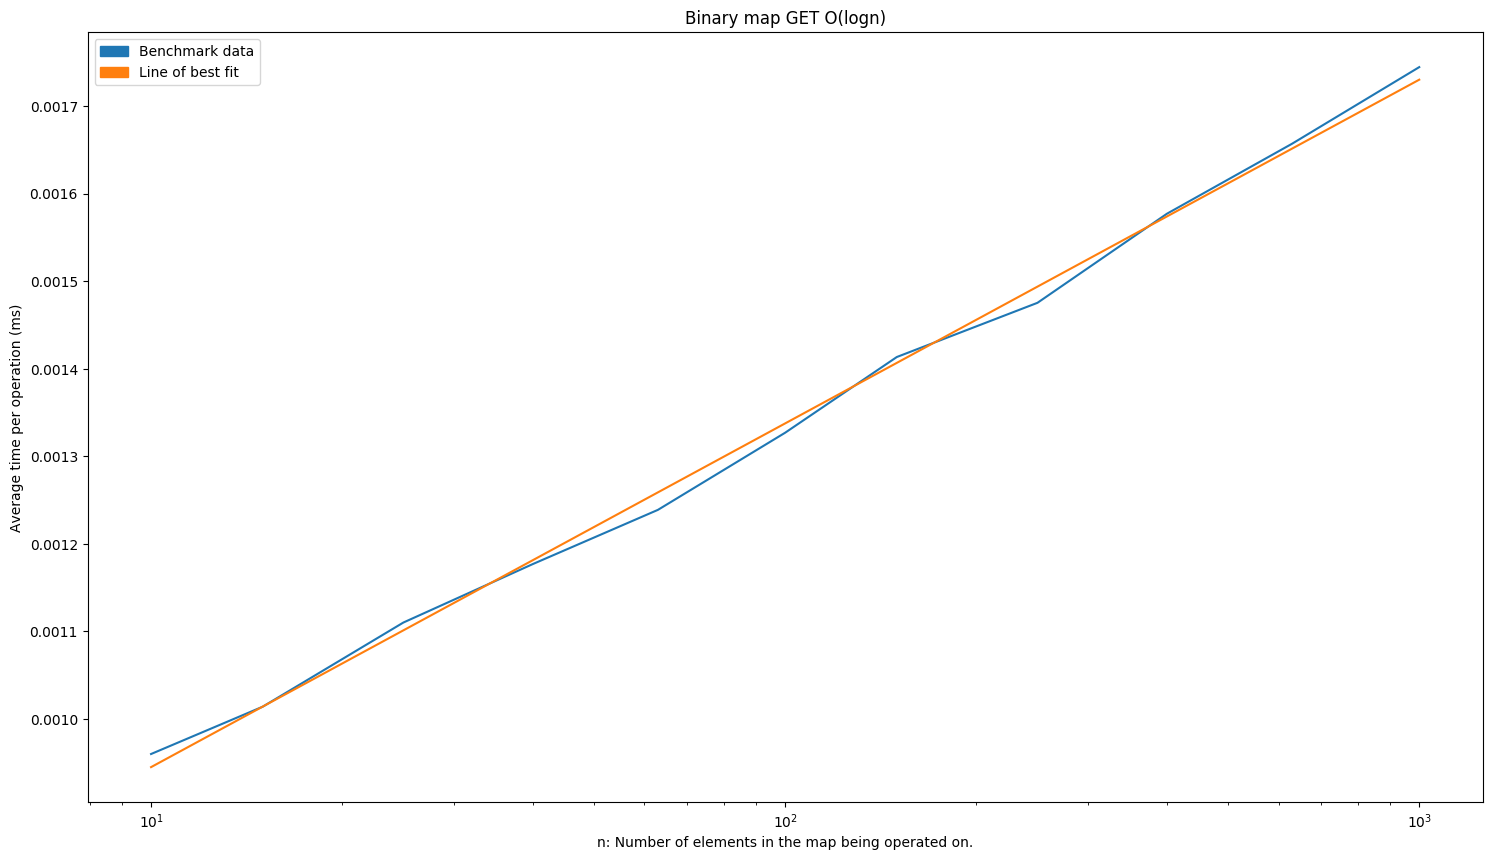
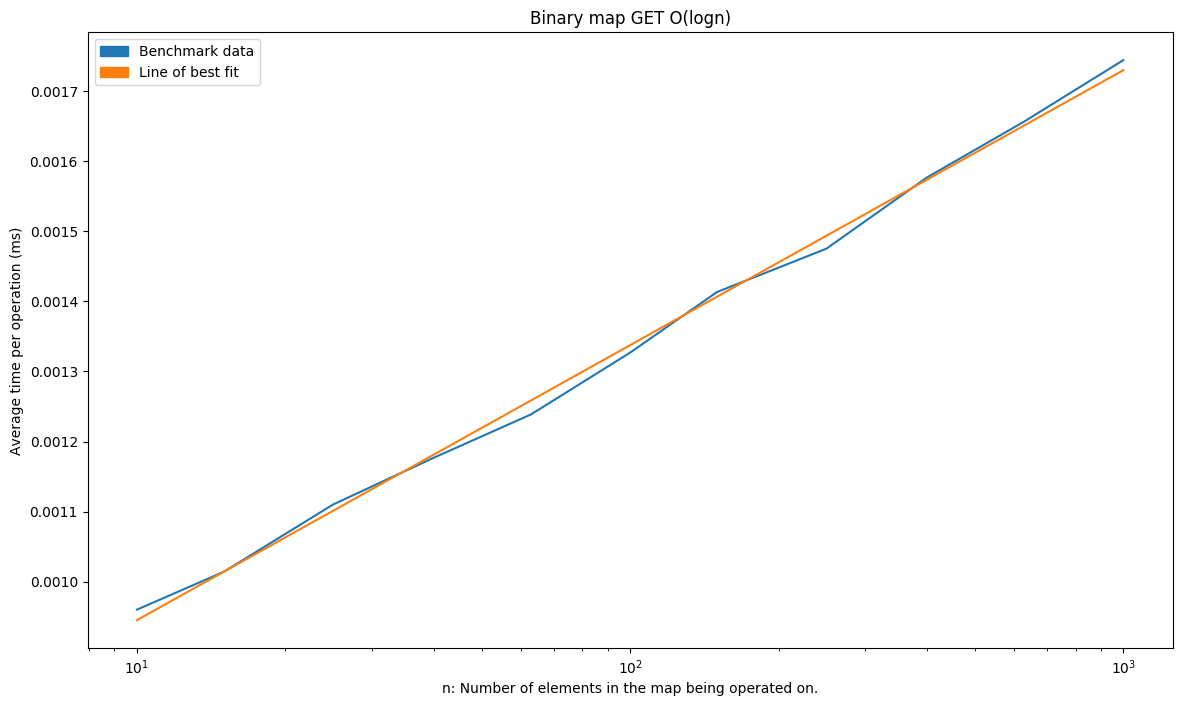
build_table.py

diff --git a/reg_separate.py b/reg_separate.py
@@ -13,6 +13,7 @@ import matplotlib.patches as mpatches
 
 i = 0
 
+
 class Functions:
     @staticmethod
     def constant(x, n):
@@ -23,6 +24,10 @@ class Functions:
         return m*x + b
 
     @staticmethod
+    def piecewise(x, m, b, a):
+        return np.piecewise(x, [x < a, x >= a], [lambda x: b, lambda x: m*x-m*a+b])
+
+    @staticmethod
     def logarithmic(x, a, b):
         return a * np.log(x) + b
 
@@ -30,10 +35,12 @@ class Functions:
     def linearithmic(x, a, b, c):
         return a * np.log(x) + b * x + c
 
+
 def plot_csv(path, function, title, graphstep=100):
     global i
+    print(i+1)
     plt.clf()
-    i+=1
+    i += 1
     xdata = []
     ydata = []
     with open(path) as csv:
@@ -42,7 +49,7 @@ def plot_csv(path, function, title, graphstep=100):
                 continue
             n, t = line.split(", ")
             n = int(n)
-            t = float(t)*1000 # convert to ms
+            t = float(t)*1000  # convert to ms
             xdata.append(n)
             ydata.append(t)
 
@@ -50,29 +57,36 @@ def plot_csv(path, function, title, graphstep=100):
     ydata = np.array(ydata)
 
     param, v = curve_fit(function, xdata, ydata)
-    
+
     plt.plot(xdata, ydata)
-    lin = np.linspace(min(xdata),max(xdata),graphstep)
+    lin = np.linspace(min(xdata), max(xdata), graphstep)
     plt.plot(lin, function(lin, *param))
     plt.xscale("log")
     plt.title(title)
     p1 = mpatches.Patch(color='C0', label='Benchmark data')
     p2 = mpatches.Patch(color='C1', label='Line of best fit')
-    plt.legend(handles=[p1,p2])
+    plt.legend(handles=[p1, p2])
     plt.xlabel("n: Number of elements in the map being operated on.")
     plt.ylabel("Average time per operation (ms)")
-    print("RMSE Loss:",np.sqrt(np.mean(np.power(ydata-function(xdata, *param),2))))
+    print("RMSE Loss:", np.sqrt(np.mean(np.power(ydata-function(xdata, *param), 2))))
     plt.savefig('reg_sep/graph{}.png'.format(i), bbox_inches='tight')
-plt.figure(figsize=(18,10))
+    print("Model vars: "+str(param))
+
+
+plt.figure(figsize=(14, 8))
 plot_csv("data/linearMapGet.csv", Functions.linear, "Linear map GET O(n)")
 plot_csv("data/linearMapAdd.csv", Functions.linear, "Linear map ADD O(n)")
-plot_csv("data/linearMapUpdate.csv", Functions.linear, "Linear map UPDATE O(n)")
-plot_csv("data/binaryMapGet.csv", Functions.logarithmic, "Binary map GET O(logn)")
-plot_csv("data/binaryMapAdd.csv", Functions.linearithmic, "Binary map ADD O(n) [O(n + logn)]")
-plot_csv("data/binaryMapUpdate.csv", Functions.logarithmic, "Binary map UPDATE O(logn)")
-plot_csv("data/hashMapGet.csv", Functions.linear, "Hash map GET O(n)")
+plot_csv("data/linearMapUpdate.csv",
+         Functions.linear, "Linear map UPDATE O(n)")
+plot_csv("data/binaryMapGet.csv", Functions.logarithmic,
+         "Binary map GET O(logn)")
+plot_csv("data/binaryMapAdd.csv", Functions.linearithmic,
+         "Binary map ADD O(n) [O(n + logn)]")
+plot_csv("data/binaryMapUpdate.csv", Functions.logarithmic,
+         "Binary map UPDATE O(logn)")
+plot_csv("data/hashMapGet.csv", Functions.piecewise, "Hash map GET O(n)")
 plot_csv("data/hashMapAdd.csv", Functions.linear, "Hash map ADD O(n)")
-plot_csv("data/hashMapUpdate.csv", Functions.linear, "Hash map UPDATE O(n)")
+plot_csv("data/hashMapUpdate.csv", Functions.piecewise, "Hash map UPDATE O(n)")
 
 
-#plt.show()
+# plt.show()

diff --git a/ris_separate.py b/ris_separate.py
@@ -52,8 +52,8 @@ def plot_csv(path, function, title, graphstep=100):
     ydata = np.array(ydata)
 
     param, v = curve_fit(function, xdata, ydata)
-
-    plt.plot(xdata, ydata-function(xdata, *param), 'o')
+    res = ydata-function(xdata, *param)
+    plt.plot(xdata, res, 'o')
     lin = np.linspace(min(xdata), max(xdata), graphstep)
     plt.plot(lin, lin*0)
     plt.xscale("log")
@@ -64,10 +64,14 @@ def plot_csv(path, function, title, graphstep=100):
     plt.xlabel("n: Number of elements in the map being operated on.")
     plt.ylabel("Difference between predicted and actual time (ms)")
     print("RMSE Loss:", np.sqrt(np.mean(np.power(ydata-function(xdata, *param), 2))))
-    plt.savefig('ris_sep/graph{}.png'.format(i), bbox_inches='tight')
+    plt.savefig('ris_sep/graph{}.png'.format(i), bbox_inches='tight',dpi=200)
+    # Credit to https://stackoverflow.com/questions/19189362/getting-the-r-squared-value-using-curve-fit
+    s_res = np.sum(res**2)
+    s_tot = np.sum((ydata-np.mean(ydata))**2)
+    r2 = 1-(s_res/s_tot)
+    print("r^2 = ",r2)
 
-
-plt.figure(figsize=(18, 6))
+plt.figure(figsize=(12, 4))
 plot_csv("data/linearMapGet.csv", Functions.linear, "Linear map GET O(n)")
 plot_csv("data/linearMapAdd.csv", Functions.linear, "Linear map ADD O(n)")
 plot_csv("data/linearMapUpdate.csv",

diff --git a/build_table.py b/build_table.py
@@ -1,0 +1,30 @@
+import glob
+import re
+
+
+def convert(name):
+    name = name.split(".")[0]
+    name = name.split("/")[-1]
+    s1 = re.sub('(.)([A-Z][a-z]+)', r'\1 \2', name)
+    name = re.sub('([a-z0-9])([A-Z])', r'\1 \2', s1).lower().split(" ")
+    return name[0].capitalize()+name[1]+" "+name[-1].upper()
+
+
+table = []
+
+for path in sorted(glob.glob("data/*.csv")):
+    with open(path) as fl:
+        contents = list(filter(lambda l: l != "", fl.read().split("\n")))
+        print(path,list(contents))
+    if not table:
+        # Build first column
+        table = [["Operations"]+[line.split(", ")[0] for line in contents]]
+    print(path,list(contents))
+    table.append([convert(path)]+[round(float(line.split(", ")[1])*1000,4) for line in contents])
+
+
+for ln in range(len(table[0])):
+    #print([str(col[ln]) for col in table])
+    #print(list([len(col) for col in table]))
+    vals = ", ".join([str(col[ln]) for col in table])
+    print(vals)
